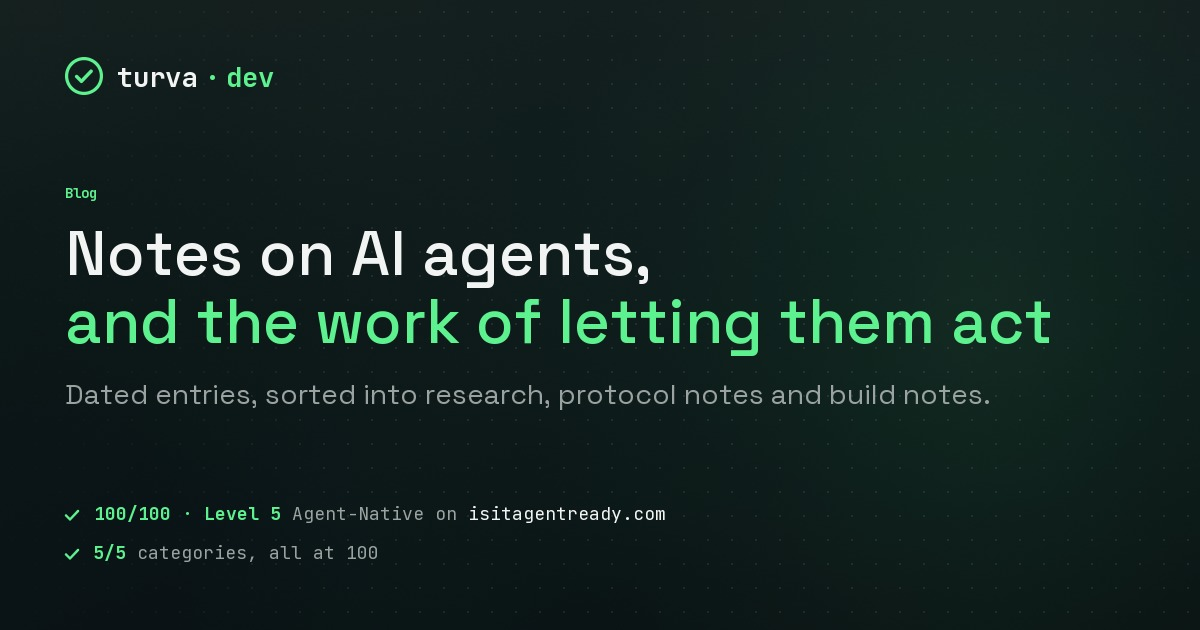
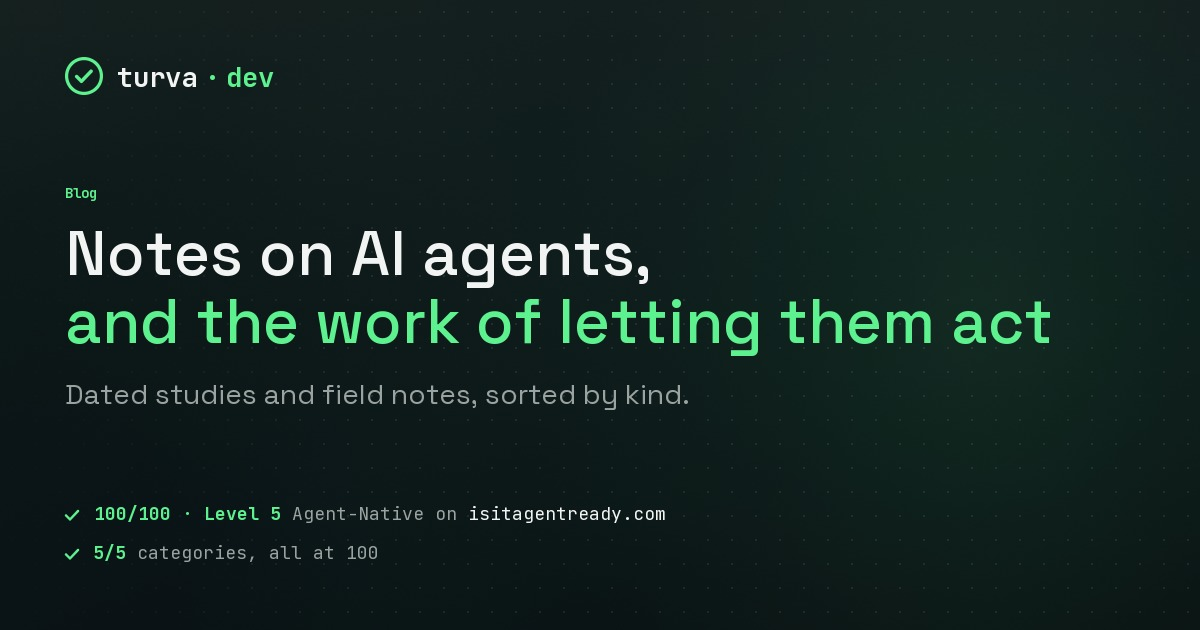
Site 3.245.0: the blog card no longer lists kinds, seven posts get a closing line that matches the audit page with a dated correction, the legal page says the email reply confirming the written scope is the order, the blog introduction limits its method promise to the studies, and two route tests co

Changed region(s): [[0.1233, 0.6032, 0.8325, 0.6635]]

diff --git a/turva-worker/src/worker.ts b/turva-worker/src/worker.ts
@@ -1,4 +1,5 @@
 // src/worker.ts
+// turva.dev worker v3.245.0 - round 26 open items (2026-11-11, Tek-806): the /blog card and its alt text no longer list three kinds, seven posts get a closing offer that says only what the audit page says, each with a dated correction line, the legal page says that the email reply confirming the written scope is the order, and the blog introduction and description limit the method and limits promise to the studies
 // turva.dev worker v3.244.0 - round 26 improvements (2026-11-11, Tek-805): a blog post closes with one next step outside main, the home and /services FAQ state that the audit reads the website and its APIs, /services sections end with a contact link, the audit page gains Terms in brief and says what the order is and keeps a summary of active security testing, llms.txt names agent operations, MCP server design and the VAT ID, two guides link the audit page and the sample, the blog kind Lab notes splits from Build notes, and four research descriptions lead with the finding
 // turva.dev worker v3.243.0 - security work follow-up (2026-11-11, Tek-802): the active security testing card on / and /services and the quotedAddOns scope in HOME_JSON and the MCP server card name GLM 5.3 and Burp Suite Professional; the add-on paragraph adds the test environment option, the coverage limit and how the report is checked and approved; the /services stop line describes the stop; the audit page names the GLM and Claude split; /legal defines security headers, makes the report section part of security work, adds Anthropic API retention and inference geography, the GLM-5.3 License, the German text of Melious's terms, Melious's OVH hardware and its storage-function exception, tightens the provider list and fixes the supervisory authority address and the Updates rule; the dated lab post gets two Corrected lines; llms.txt Engagement model and the services agent skill name the add-on and the model split (llms.txt and server card re-signed, MCP 1.10.1).
 // turva.dev worker v3.242.0 - security work runs with GLM 5.3 (2026-11-11, Tek-799): the active security testing add-on on /services and /agent-readiness-audit, the /services AI tools answer and /legal say that active security testing and an audit's internet.nl tests and published security scans run with GLM 5.3 through Melious AI GmbH on its own hardware in Finland, with Claude Code as the agent program and its other traffic to Anthropic switched off; /legal names the zero data retention clause, the account and key limited to Melious's own route and the provider line; the Anthropic API workspace for testing and the second-model fallback are gone; /legal privacy date 2026-11-11
@@ -3595,7 +3596,7 @@ The fix shipped yesterday: RateLimit-Limit is gone and RateLimit-Policy stays. T
 
 A declared limit is a claim about behavior, and claims about behavior rot silently, because nothing breaks when they do. The check that catches this class of defect is reading the code. A probe smaller than the burst sizes measured here did not catch it in these runs, because on an eventually consistent platform it returns the same comfortable 200s for a working guard, for a missing one and for one that has failed open. A large parallel burst can draw refusals, as the runs above did, and it still does not show which line of code refused. If a header on your site promises something, the interesting question is not whether the value looks sensible. It is which line of code makes it true.
 
-If you want your own agent-facing claims read the way a skeptic would read them, an audit is what I do. Email info@turva.dev.
+My audit reads what your site publishes for automated clients and reports where two places disagree. It does not read your code. Email info@turva.dev.
 
 Corrected 2026-09-27. A sentence said probing the endpoint cannot catch this defect. The larger bursts in this post did draw refusals, so it now says a small probe cannot, and that a burst still does not show which code refused. No number changed.
 
@@ -3610,6 +3611,8 @@ Corrected 2026-09-29. The test section stated the all-200 result for a slow loop
 Corrected 2026-09-29. A sentence said that from the outside a guard that has failed open is indistinguishable from a guard doing its job. It now says that under a probe that stays below the refusal threshold both return 200, so they look the same from the outside, and that the logs or the code tell them apart. No number changed.
 
 Corrected 2026-11-02. A sentence said RateLimit-Policy alone is the correct form for a static limit. The draft also lets a server send both fields, so it now says a correct form, and the only one this Worker can send without inventing a number.
+
+Corrected 2026-11-11. The closing line offered an audit that reads agent-facing claims the way a skeptic would. The audit reads what a site publishes and does not read its code. This post says reading the code is the check that catches the defect, so the line now says that.
 
 ## Related
 
@@ -3909,7 +3912,9 @@ That is the line between a hollow signal and a modest true one, and a scanner ca
 
 [auth.md](/auth.md) now says one thing instead of two. The key it names is the key you get if you email and ask, and it labels the message and grants nothing. The fields that described things the service does not do are gone. The check reads green because the declaration is finally true. Nothing was padded to please it.
 
-For an agent-readiness audit that reads your agent-facing claims the way a skeptic would, contact info@turva.dev.
+For an agent-readiness audit that checks whether the facts and files your site publishes agree with each other, contact info@turva.dev.
+
+Corrected 2026-11-11. The closing line offered an audit that reads agent-facing claims the way a skeptic would. It now names what the audit checks, which is whether the published facts and files agree.
 
 ## Related
 
@@ -3947,7 +3952,9 @@ The lasting repair is anchoring. A guide claim about a moving specification now 
 
 Corrected 2026-11-05. The re-check schedule this paragraph names is gone. I start the monthly read of the guides myself, and nothing on the site enforces it.
 
-For an audit that reads your agent-facing claims against the specifications they cite, contact info@turva.dev.
+For an agent-readiness audit that checks whether the facts and files your site publishes agree with each other, contact info@turva.dev.
+
+Corrected 2026-11-11. The closing line offered an audit that reads agent-facing claims against the specifications they cite. The audit checks whether the published facts and files agree, so the line now says that.
 
 ## Related
 
@@ -3979,7 +3986,7 @@ The token split is measured, not typed in by hand. It comes from scanning both f
 
 Corrected 2026-10-31. The sentence above said this site logs the pair after every deploy. The pair came from a scanner the site stopped using on 21 July 2026, and nothing has logged it since.
 
-For an audit that measures what agents pay to read your site, contact info@turva.dev.
+For an agent-readiness audit that checks whether automated clients can find and read your information, contact info@turva.dev.
 
 Corrected 2026-09-28. The heading called the token count an agent bill. The post measures what each form costs to read in tokens, not a paid invoice, and the body now says so.
 
@@ -3988,6 +3995,8 @@ Corrected 2026-09-28. The heading, and the same words used elsewhere on the site
 Corrected 2026-09-29. The opening still explained the word bill in the title after the title had dropped it. That explanation is gone, and the sentence says what the post measures.
 
 Corrected 2026-10-02. One sentence said the site had gained seven blog posts since the earlier post. The blog index lists six, so it now says: "Since that post went out the site has gained six blog posts before this one."
+
+Corrected 2026-11-11. The closing line offered an audit that measures what agents pay to read a site. The audit page names no token cost measurement, so the line now offers what the audit checks.
 
 ## Related
 
@@ -4344,7 +4353,7 @@ All free tools on this site are collected on [the tools page](/tools).
 
   "/blog": `# Research and field notes
 
-Dated studies, technical investigations, build notes and lab notes from turva.dev. Each article explains what was observed, how it was checked and what the result does not establish.
+Dated studies, technical investigations, build notes and lab notes from turva.dev. Each study explains what was observed, how it was checked and what the result does not establish.
 
 [RSS feed](/blog/feed.xml)
 
@@ -4523,9 +4532,11 @@ An agent-readiness audit asks whether an agent can read your public site. OKF is
 
 For now OKF is worth understanding and worth watching. It is early to rebuild a knowledge catalog around it. If you already serve clean text to agents, you are most of the way there already.
 
-For an audit of how legibly AI agents read your site and the data behind it, contact info@turva.dev.
+For an agent-readiness audit of whether AI agents can find and read what your site and API publish, contact info@turva.dev.
 
 Corrected 2026-10-23. A sentence said version 0.1 does not fix what any field means. Section 4.1 of the spec defines the required type field and five recommended fields, so the sentence now says: "It requires a type field and gives a short definition for each of five recommended fields, but it registers no type values and does not say how two teams should agree on the same names."
+
+Corrected 2026-11-11. The closing line offered an audit of how legibly AI agents read a site and the data behind it. The audit reads what the site and its API publish and not the data behind them, so the line now says that.
 
 ## Related
 
@@ -4565,7 +4576,7 @@ Updated 2026-11-01. The scanner checks markdown content negotiation. It does not
 
 None of this is a rebuild. It is a small piece of code at the edge that picks the response format from the request header, and it keeps working as the site grows. The Worker that does it on turva.dev is public, so you can read exactly what it does before deciding whether it belongs on your own site.
 
-For an audit of how cheaply agents can read your site, contact info@turva.dev.
+For an agent-readiness audit that checks whether automated clients can find and read your information, contact info@turva.dev.
 
 ## Frequently asked
 
@@ -4588,6 +4599,8 @@ Corrected 2026-09-28. The opening sentence said a cheaper page decides whether a
 Corrected 2026-09-28. A sentence said assistants read better from clean text and are therefore more likely to use a page in full and represent it accurately. It now ties that to the lower cost of reading the page rather than claiming reading quality itself improves.
 
 Corrected 2026-10-30. The opening and the first FAQ answer said that navigation, styling, scripts and structured data all arrive whether the agent needs them or not. That holds for an agent that reads the raw markup, and both now say so.
+
+Corrected 2026-11-11. The closing line offered an audit of how cheaply agents can read a site. The audit page names no token cost measurement, so the line now offers what the audit checks.
 
 ## Related
 
@@ -4629,7 +4642,7 @@ The concrete uses are easy to name. Validate Web Bot Auth signatures at the edge
 
 None of this is live for Claude on the day I publish this, and I will not write as though it were. The directory is public for a reason. Check it, and admit what it actually says rather than what a vendor page claims. When the entry appears, the work on the receiving side is already done, and the audit has a new line that can be measured rather than asserted.
 
-For an agent-readiness audit that covers how your site recognizes and admits AI agents, contact info@turva.dev.
+For an agent-readiness audit that reads the access rules and files your site publishes for automated clients, contact info@turva.dev.
 
 ## Frequently asked
 
@@ -4646,6 +4659,8 @@ It is just text, and anything can send it. An IP range drifts as providers move 
 Yes. A site that switches on a rule that blocks AI bots can block a request that a person asked an agent to make, and operators have had to add a manual exception by hand to let it through.
 
 Corrected 2026-10-02. The post said copying the header does not reproduce a signature, which can be read as replay resistance. It now says: "Copying the header does not let anyone sign a new request, though a captured one can be replayed until it expires." A sentence also claimed a verification time of one millisecond that nobody measured. It now says a site can verify the request at the edge.
+
+Corrected 2026-11-11. The closing line offered an audit that covers how a site recognizes and admits AI agents. The audit reads the access rules and files a site publishes, so the line now says that.
 
 ## Related
 
@@ -6121,7 +6136,7 @@ Contact: [info@turva.dev](mailto:info@turva.dev)
 
 These terms apply to audits, advisory, implementation, agent operations and MCP server design, including the active security testing add-on, unless a written agreement replaces them. The services are sold only to businesses and other organizations acting in their trade or profession, not to consumers.
 
-**Scope.** We agree the scope in writing before work starts. Changes need a new written agreement and may affect the price and schedule.
+**Scope.** We agree the scope in writing before work starts. Your email reply that confirms the written scope is the order. Changes need a new written agreement and may affect the price and schedule.
 
 **Business days.** A business day means Finland's business days, Monday to Friday, excluding Finnish public holidays, in Europe/Helsinki time.
 
@@ -8274,7 +8289,7 @@ const OPENAPI_SPEC = JSON.stringify({
   "openapi": "3.1.0",
   "info": {
     "title": "turva.dev Agent API",
-    "version": "3.244.0",
+    "version": "3.245.0",
     "description": "Read-only metadata + endpoints that declare payment, for AI agents. MPP and x402 on the /api/agent/* routes; the x402 manifest also names /x402 and /api as challenge roots. ACP checkout sessions live under /api/acp/checkout_sessions and are stateless. The free endpoint index is /api/v1. It also lists the free llms.txt validator, the free Markdown parity check, the ACP index and the A2A task routes.",
     "contact": { "name": "Erik Rekola", "email": "info@turva.dev", "url": "https://turva.dev/" },
     "license": { "name": "Proprietary", "url": "https://turva.dev/legal" }
@@ -8583,7 +8598,7 @@ const A2A_AGENT_CARD = JSON.stringify({
   "description": "Public read-only agent interface for turva.dev, an independent agent-readiness audit and advisory business operated by Erik Rekola. Exposes the service catalog with prices, contact channels, and company information over HTTP+JSON. No authentication and no write operations.",
   "url": "https://turva.dev",
   "preferredTransport": "HTTP+JSON",
-  "version": "3.244.0",
+  "version": "3.245.0",
   "provider": {
     "organization": "turva.dev",
     "url": "https://turva.dev/"
@@ -9743,7 +9758,7 @@ const META_BY_PATH = {
     titleTag: "Every response promised a rate limit · turva.dev",
     description: "A response header advertised a request limit that no code enforced. The investigation separates a published policy, the code and what a probe can show.",
     date: "2026-07-18",
-    modified: "2026-11-02",
+    modified: "2026-11-11",
     kind: "Build notes",
     image: "/og-enforcing-the-rate-limit-i-advertised.jpg",
     imageAlt: "Every response promised a rate limit. Nothing enforced it."
@@ -9780,6 +9795,7 @@ const META_BY_PATH = {
     title: "When honesty and the checker disagree · turva.dev",
     description: "An optional credential was both declared and denied in the same metadata. The repair made the description consistent without claiming access it did not grant.",
     date: "2026-07-06",
+    modified: "2026-11-11",
     kind: "Build notes",
     image: "/og-honesty-and-the-checker.jpg",
     imageAlt: "turva.dev blog card: Making this site's auth.md cleaner made the scanner fail. The honest form was the precise one, neither gutted nor padded to please the check."
@@ -9789,7 +9805,7 @@ const META_BY_PATH = {
     description: "A dated review of the guides found that source specifications and local claims had moved. The article records corrections and the limits of automated checks.",
     date: "2026-07-04",
     kind: "Build notes",
-    modified: "2026-11-05",
+    modified: "2026-11-11",
     image: "/og-re-checking-the-guides.jpg",
     imageAlt: "turva.dev blog card: Four AI agents re-read the guides against the specifications behind them."
   },
@@ -9797,7 +9813,7 @@ const META_BY_PATH = {
     title: "The page grew, the agent token count did not · turva.dev",
     description: "A July measurement compared the token counts of the homepage's HTML and Markdown representations. The result describes that page and measurement date.",
     date: "2026-07-04",
-    modified: "2026-11-05",
+    modified: "2026-11-11",
     kind: "Build notes",
     image: "/og-cheaper-pages-revisited.jpg",
     imageAlt: "turva.dev blog card: The site kept growing after June's token-cost post. The 4 July scan reports an 83% token saving between the HTML and markdown forms."
@@ -9847,9 +9863,9 @@ const META_BY_PATH = {
   },
   "/blog": {
     title: "Agent-readiness research and field notes · turva.dev",
-    description: "Dated studies and technical notes on website agent-readiness, AI answers and implementation. Read the methods, observations and limitations.",
+    description: "Dated studies and technical notes on website agent-readiness, AI answers and implementation. Each study states its method and its limits.",
     image: "/og-blog.jpg",
-    imageAlt: "turva.dev blog card: dated notes on AI agents and the work of letting them act, sorted into research, protocol notes and build notes."
+    imageAlt: "turva.dev blog card: notes on AI agents and the work of letting them act, dated studies and field notes sorted by kind."
   },
   "/blog/agent-access-is-now-a-setting": {
     title: "Agent access is now a setting · turva.dev",
@@ -9873,7 +9889,7 @@ const META_BY_PATH = {
     title: "What the Open Knowledge Format is, and what it is not · turva.dev",
     description: "An early reading of Open Knowledge Format version 0.1 separates the file structure it defines from the semantic promises it leaves open.",
     date: "2026-06-27",
-    modified: "2026-10-23",
+    modified: "2026-11-11",
     kind: "Protocol notes",
     image: "/og-open-knowledge-format.jpg",
     imageAlt: "turva.dev blog card: Google Cloud shipped the Open Knowledge Format. What it is, what it is not yet, and how it relates to an agent-readiness audit."
@@ -9882,7 +9898,7 @@ const META_BY_PATH = {
     title: "What an agent pays to read your site · turva.dev",
     description: "This article examines the publisher's influence on the content a text-based client receives, using a dated HTML-versus-Markdown comparison.",
     date: "2026-06-26",
-    modified: "2026-11-01",
+    modified: "2026-11-11",
     kind: "Build notes",
     image: "/og-cheaper-pages-for-agents.jpg",
     imageAlt: "turva.dev blog card: An agent pays to read your site in tokens, and an HTML-only page is expensive."
@@ -9898,7 +9914,7 @@ const META_BY_PATH = {
     title: "When an agent can prove it is Claude · turva.dev",
     description: "Signed requests can give evidence of a sender's identity. This dated article separates that evidence from trusting a user-agent string or granting an action.",
     date: "2026-06-25",
-    modified: "2026-10-31",
+    modified: "2026-11-11",
     kind: "Protocol notes",
     image: "/og-verifiable-agent-identity.jpg",
     imageAlt: "turva.dev blog card: Web Bot Auth gives an AI agent a verifiable, signed identity a site can check."

diff --git a/turva-worker/test/routes.test.ts b/turva-worker/test/routes.test.ts
@@ -1889,3 +1889,38 @@ test("K24 W4-12: every same-page or site-internal #anchor link on every sitemap 
   assert.ok(checked > 20, "the test must see the anchor links (saw " + checked + ")");
   assert.deepEqual(broken, [], "anchor links with no matching id");
 });
+
+// Tek-806 (2026-11-11): three checks the 3.244.0 release shipped without a test for.
+test("/blog lists exactly four kinds, every post carries one of them, and only a Lab notes post closes without the next step (Tek-806)", async () => {
+  const blog = await (await get("/blog")).text();
+  const buttons = [...blog.matchAll(/<button type="button" class="bkind" data-kind="([^"]*)"/g)].map((m) => m[1]);
+  assert.deepEqual(buttons, ["", "Research", "Protocol notes", "Build notes", "Lab notes"], "the filter row is All plus the four kinds");
+  const kinds = buttons.slice(1);
+  const posts = [...blog.matchAll(/<li class="post" data-kind="([^"]*)" data-search="[^"]*"><span class="pt"><a href="(\/blog\/[a-z0-9-]+)"/g)].map((m) => ({ kind: m[1], path: m[2] }));
+  assert.equal(posts.length, (blog.match(/<li class="post"/g) || []).length, "every card was read");
+  assert.ok(posts.length >= 49, "the index lists the posts: " + posts.length);
+  for (const post of posts) assert.ok(kinds.includes(post.kind), "the post's kind is one of the four: " + post.path + " has " + JSON.stringify(post.kind));
+  for (const kind of kinds) assert.ok(posts.some((post) => post.kind === kind), "no kind is empty: " + kind);
+  for (const post of posts) {
+    const html = await (await get(post.path)).text();
+    const hasNext = html.includes('<div class="pagefoot">') || html.includes('class="next"') || html.includes('<main id="main" class="has-next">');
+    if (post.kind === "Lab notes") assert.ok(!hasNext, "a Lab notes post has no next step: " + post.path);
+    else assert.match(html, /<main id="main" class="has-next">[\s\S]*<\/main>\n<div class="pagefoot"><aside class="next"><p>/, "the next step follows the post's main: " + post.path);
+  }
+});
+
+test("/services: each of the five contact links carries the href of the matching /contact button (Tek-806)", async () => {
+  const drafts = (html: string): Record<string, string[]> => {
+    const out: Record<string, string[]> = {};
+    for (const m of html.matchAll(/<a(?: class="btn")? href="(mailto:info@turva\.dev\?subject=[^"]*)">(Ask about [^<]*)<\/a>/g)) (out[m[2]] ||= []).push(m[1]);
+    return out;
+  };
+  const contact = drafts(await (await get("/contact")).text());
+  const services = drafts(await (await get("/services")).text());
+  assert.deepEqual(Object.keys(contact).sort(), ["Ask about agent operations or MCP server design", "Ask about an audit", "Ask about implementation", "Ask about ongoing advisory"], "/contact has its four buttons");
+  for (const hrefs of Object.values(contact)) assert.equal(hrefs.length, 1, "one button per label on /contact");
+  assert.deepEqual(Object.keys(services).sort(), Object.keys(contact).sort(), "/services uses the labels of /contact");
+  assert.equal(Object.values(services).flat().length, 5, "five contact links, one per service section");
+  assert.equal(services["Ask about agent operations or MCP server design"].length, 2, "agent operations and MCP server design share one draft");
+  for (const [label, hrefs] of Object.entries(services)) for (const href of hrefs) assert.equal(href, contact[label][0], "same draft as /contact: " + label);
+});
